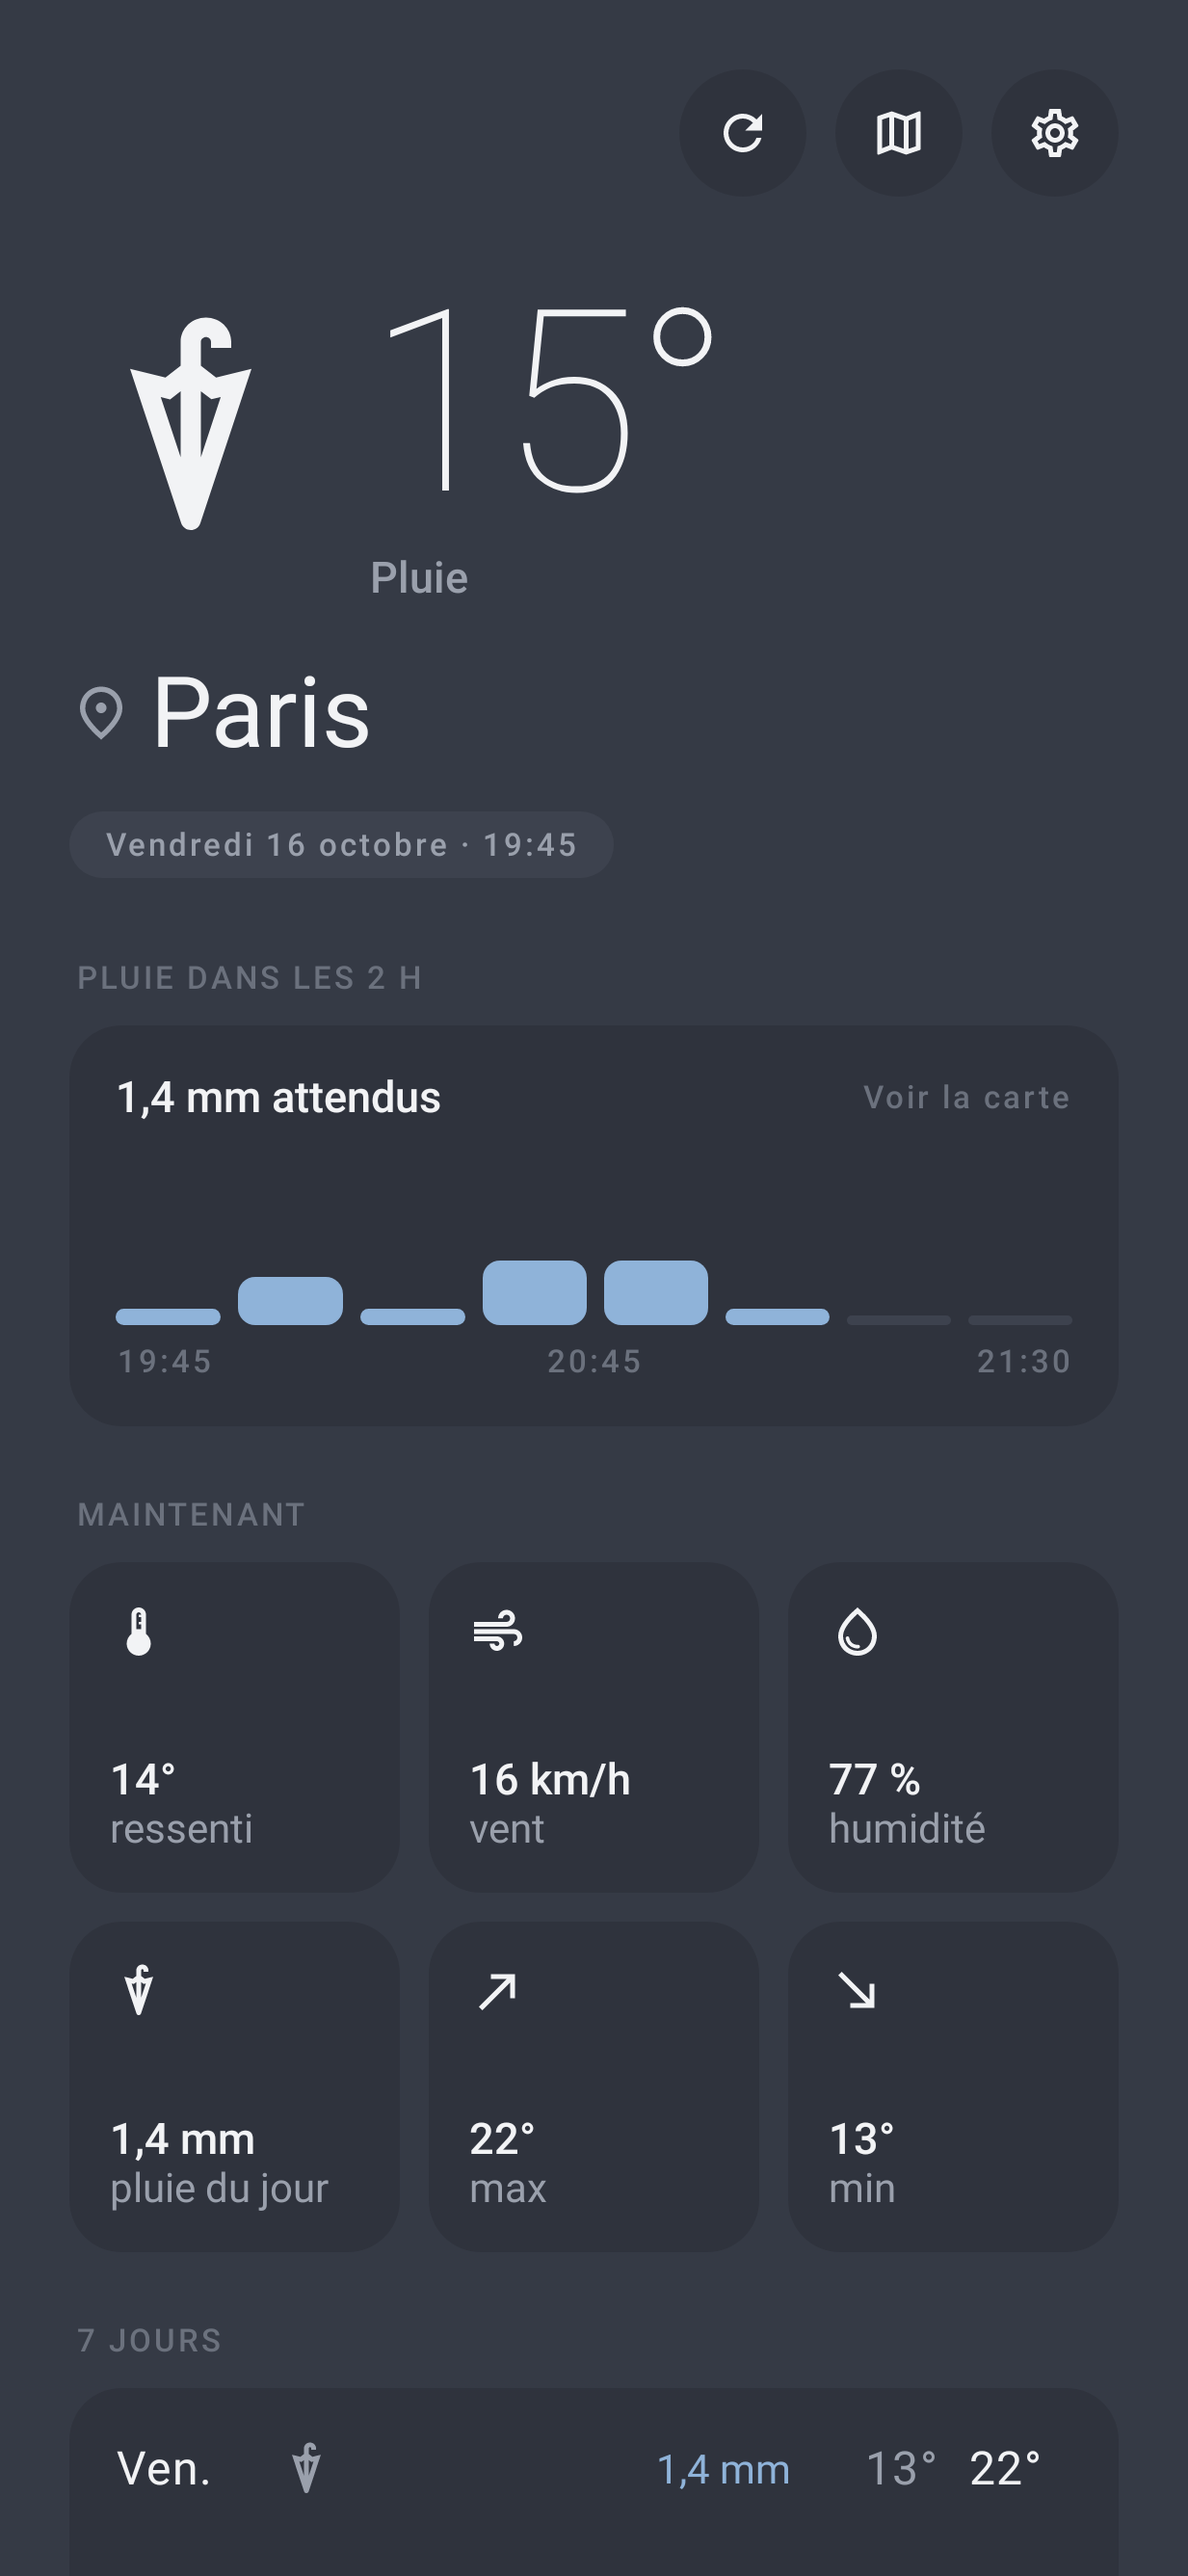
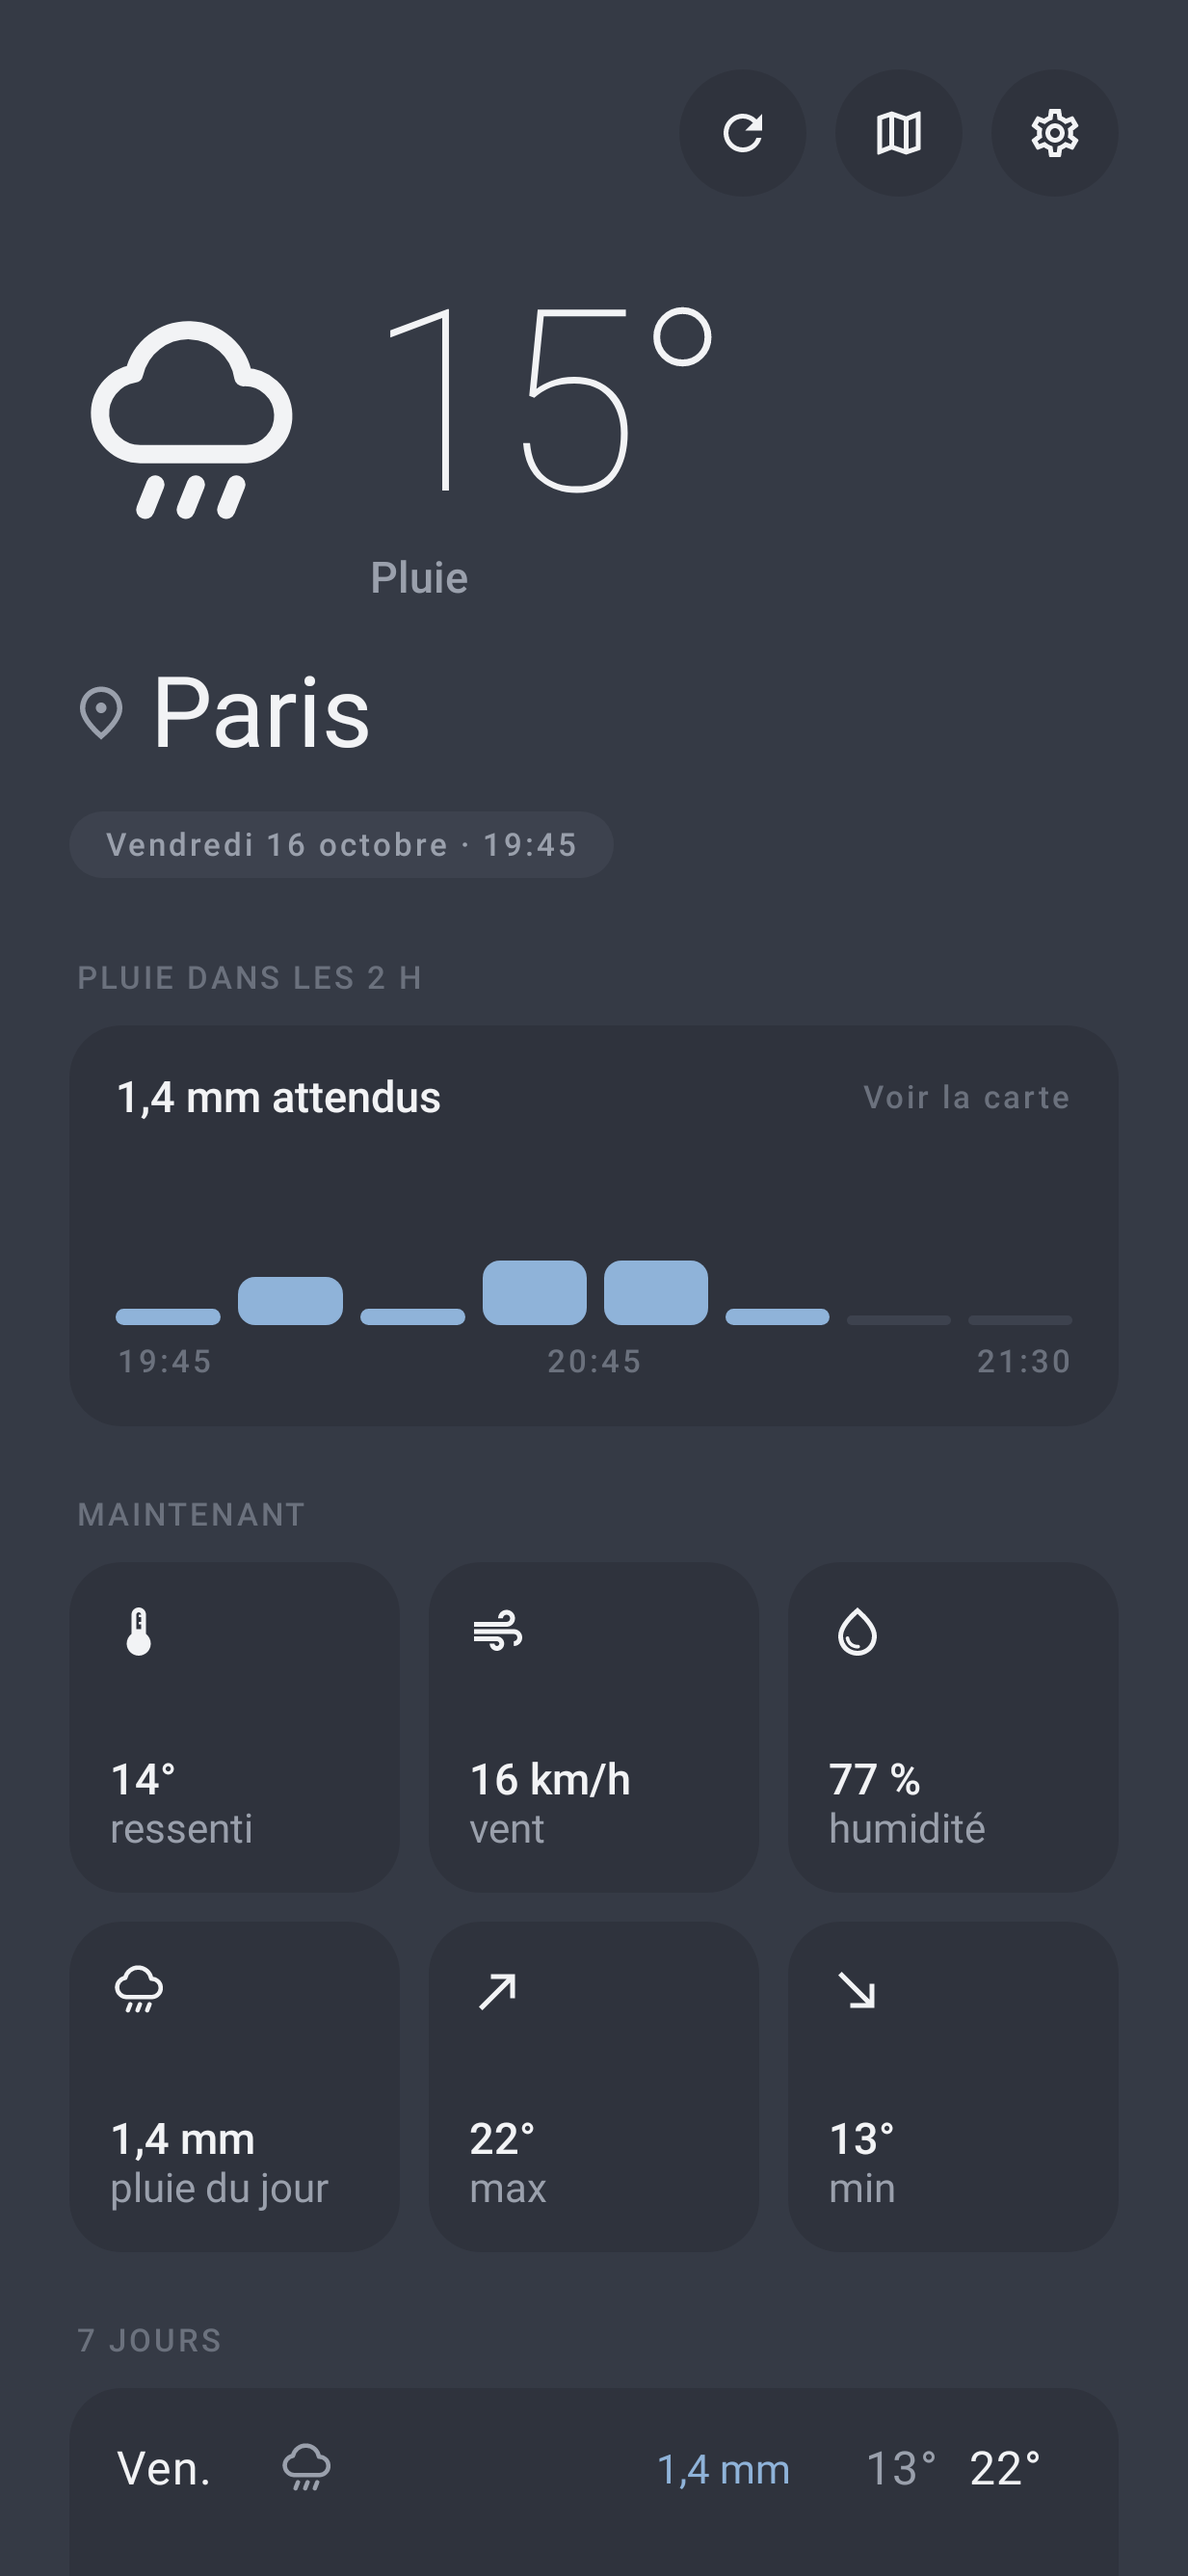
Icône pluie : nuage avec gouttes au lieu du parapluie
Claude-Session: https://claude.ai/code/session_01VhSL2CRbYz8j8n8SGyW4DJ

Changed region(s): [[0.0616, 0.1242, 0.2466, 0.2174], [0.2466, 0.9315, 0.2774, 0.9626], [0.0925, 0.7452, 0.1233, 0.7763]]

diff --git a/android-app/app/src/main/java/com/namm/meteo/ui/forecast/ForecastScreen.kt b/android-app/app/src/main/java/com/namm/meteo/ui/forecast/ForecastScreen.kt
@@ -28,7 +28,6 @@ import androidx.compose.material.icons.outlined.Settings
 import androidx.compose.material.icons.outlined.SouthEast
 import androidx.compose.material.icons.outlined.SystemUpdate
 import androidx.compose.material.icons.outlined.Thermostat
-import androidx.compose.material.icons.outlined.Umbrella
 import androidx.compose.material.icons.outlined.WaterDrop
 import androidx.compose.material3.CircularProgressIndicator
 import androidx.compose.material3.Icon
@@ -53,6 +52,7 @@ import com.namm.meteo.ui.components.Pill
 import com.namm.meteo.ui.components.RoundIconButton
 import com.namm.meteo.ui.components.SectionLabel
 import com.namm.meteo.ui.components.TileShape
+import com.namm.meteo.ui.components.WeatherIcons
 import com.namm.meteo.ui.components.icon
 import com.namm.meteo.ui.theme.Slate
 import java.time.LocalDate
@@ -171,7 +171,7 @@ fun ForecastContent(
                 TileData(Icons.Outlined.Thermostat, "${c.apparentTemperature.roundToInt()}°", "ressenti"),
                 TileData(Icons.Outlined.Air, "${c.windSpeed.roundToInt()} km/h", "vent"),
                 TileData(Icons.Outlined.WaterDrop, "${c.humidity} %", "humidité"),
-                TileData(Icons.Outlined.Umbrella, "${mm(today?.precipitationSum ?: 0.0)} mm", "pluie du jour"),
+                TileData(WeatherIcons.Rain, "${mm(today?.precipitationSum ?: 0.0)} mm", "pluie du jour"),
                 TileData(Icons.Outlined.NorthEast, "${today?.tempMax?.roundToInt() ?: "–"}°", "max"),
                 TileData(Icons.Outlined.SouthEast, "${today?.tempMin?.roundToInt() ?: "–"}°", "min"),
             ),

diff --git a/android-app/app/src/main/java/com/namm/meteo/ui/components/WeatherIcons.kt b/android-app/app/src/main/java/com/namm/meteo/ui/components/WeatherIcons.kt
@@ -1,0 +1,40 @@
+package com.namm.meteo.ui.components
+
+import androidx.compose.ui.graphics.Color
+import androidx.compose.ui.graphics.SolidColor
+import androidx.compose.ui.graphics.StrokeCap
+import androidx.compose.ui.graphics.StrokeJoin
+import androidx.compose.ui.graphics.vector.ImageVector
+import androidx.compose.ui.graphics.vector.addPathNodes
+import androidx.compose.ui.unit.dp
+
+/** Icônes météo dessinées au trait (style « outlined »), absentes de Material Icons. */
+object WeatherIcons {
+
+    private const val CLOUD = "M7,14.5a4,4 0,0 1,-0.6 -7.95A5.5,5.5 0,0 1,17.2 6.9a3.8,3.8 0,0 1,0.3 7.6H7z"
+
+    /** Nuage + trois gouttes (pluie). */
+    val Rain: ImageVector by lazy { cloudWith("M8.5,17.5l-1,2.5", "M12.5,17.5l-1,2.5", "M16.5,17.5l-1,2.5") }
+
+    /** Nuage + deux petites gouttes (bruine). */
+    val Drizzle: ImageVector by lazy { cloudWith("M9.5,18v1.5", "M14.5,18v1.5") }
+
+    private fun cloudWith(vararg drops: String) = ImageVector.Builder(
+        name = "WeatherCloud",
+        defaultWidth = 24.dp,
+        defaultHeight = 24.dp,
+        viewportWidth = 24f,
+        viewportHeight = 24f,
+    ).apply {
+        (listOf(CLOUD) + drops).forEach { path ->
+            addPath(
+                pathData = addPathNodes(path),
+                fill = null,
+                stroke = SolidColor(Color.Black), // teinte remplacée par Icon(tint = …)
+                strokeLineWidth = 1.8f,
+                strokeLineCap = StrokeCap.Round,
+                strokeLineJoin = StrokeJoin.Round,
+            )
+        }
+    }.build()
+}

diff --git a/android-app/app/src/main/java/com/namm/meteo/ui/components/Components.kt b/android-app/app/src/main/java/com/namm/meteo/ui/components/Components.kt
@@ -11,9 +11,7 @@ import androidx.compose.material.icons.outlined.AcUnit
 import androidx.compose.material.icons.outlined.Cloud
 import androidx.compose.material.icons.outlined.Dehaze
 import androidx.compose.material.icons.outlined.FilterDrama
-import androidx.compose.material.icons.outlined.Grain
 import androidx.compose.material.icons.outlined.Thunderstorm
-import androidx.compose.material.icons.outlined.Umbrella
 import androidx.compose.material.icons.outlined.WbSunny
 import androidx.compose.material3.Icon
 import androidx.compose.material3.IconButton
@@ -67,8 +65,8 @@ fun WeatherCondition.icon(): ImageVector = when (this) {
     WeatherCondition.PARTLY_CLOUDY -> Icons.Outlined.FilterDrama
     WeatherCondition.CLOUDY -> Icons.Outlined.Cloud
     WeatherCondition.FOG -> Icons.Outlined.Dehaze
-    WeatherCondition.DRIZZLE -> Icons.Outlined.Grain
-    WeatherCondition.RAIN -> Icons.Outlined.Umbrella
+    WeatherCondition.DRIZZLE -> WeatherIcons.Drizzle
+    WeatherCondition.RAIN -> WeatherIcons.Rain
     WeatherCondition.SNOW -> Icons.Outlined.AcUnit
     WeatherCondition.STORM -> Icons.Outlined.Thunderstorm
 }
